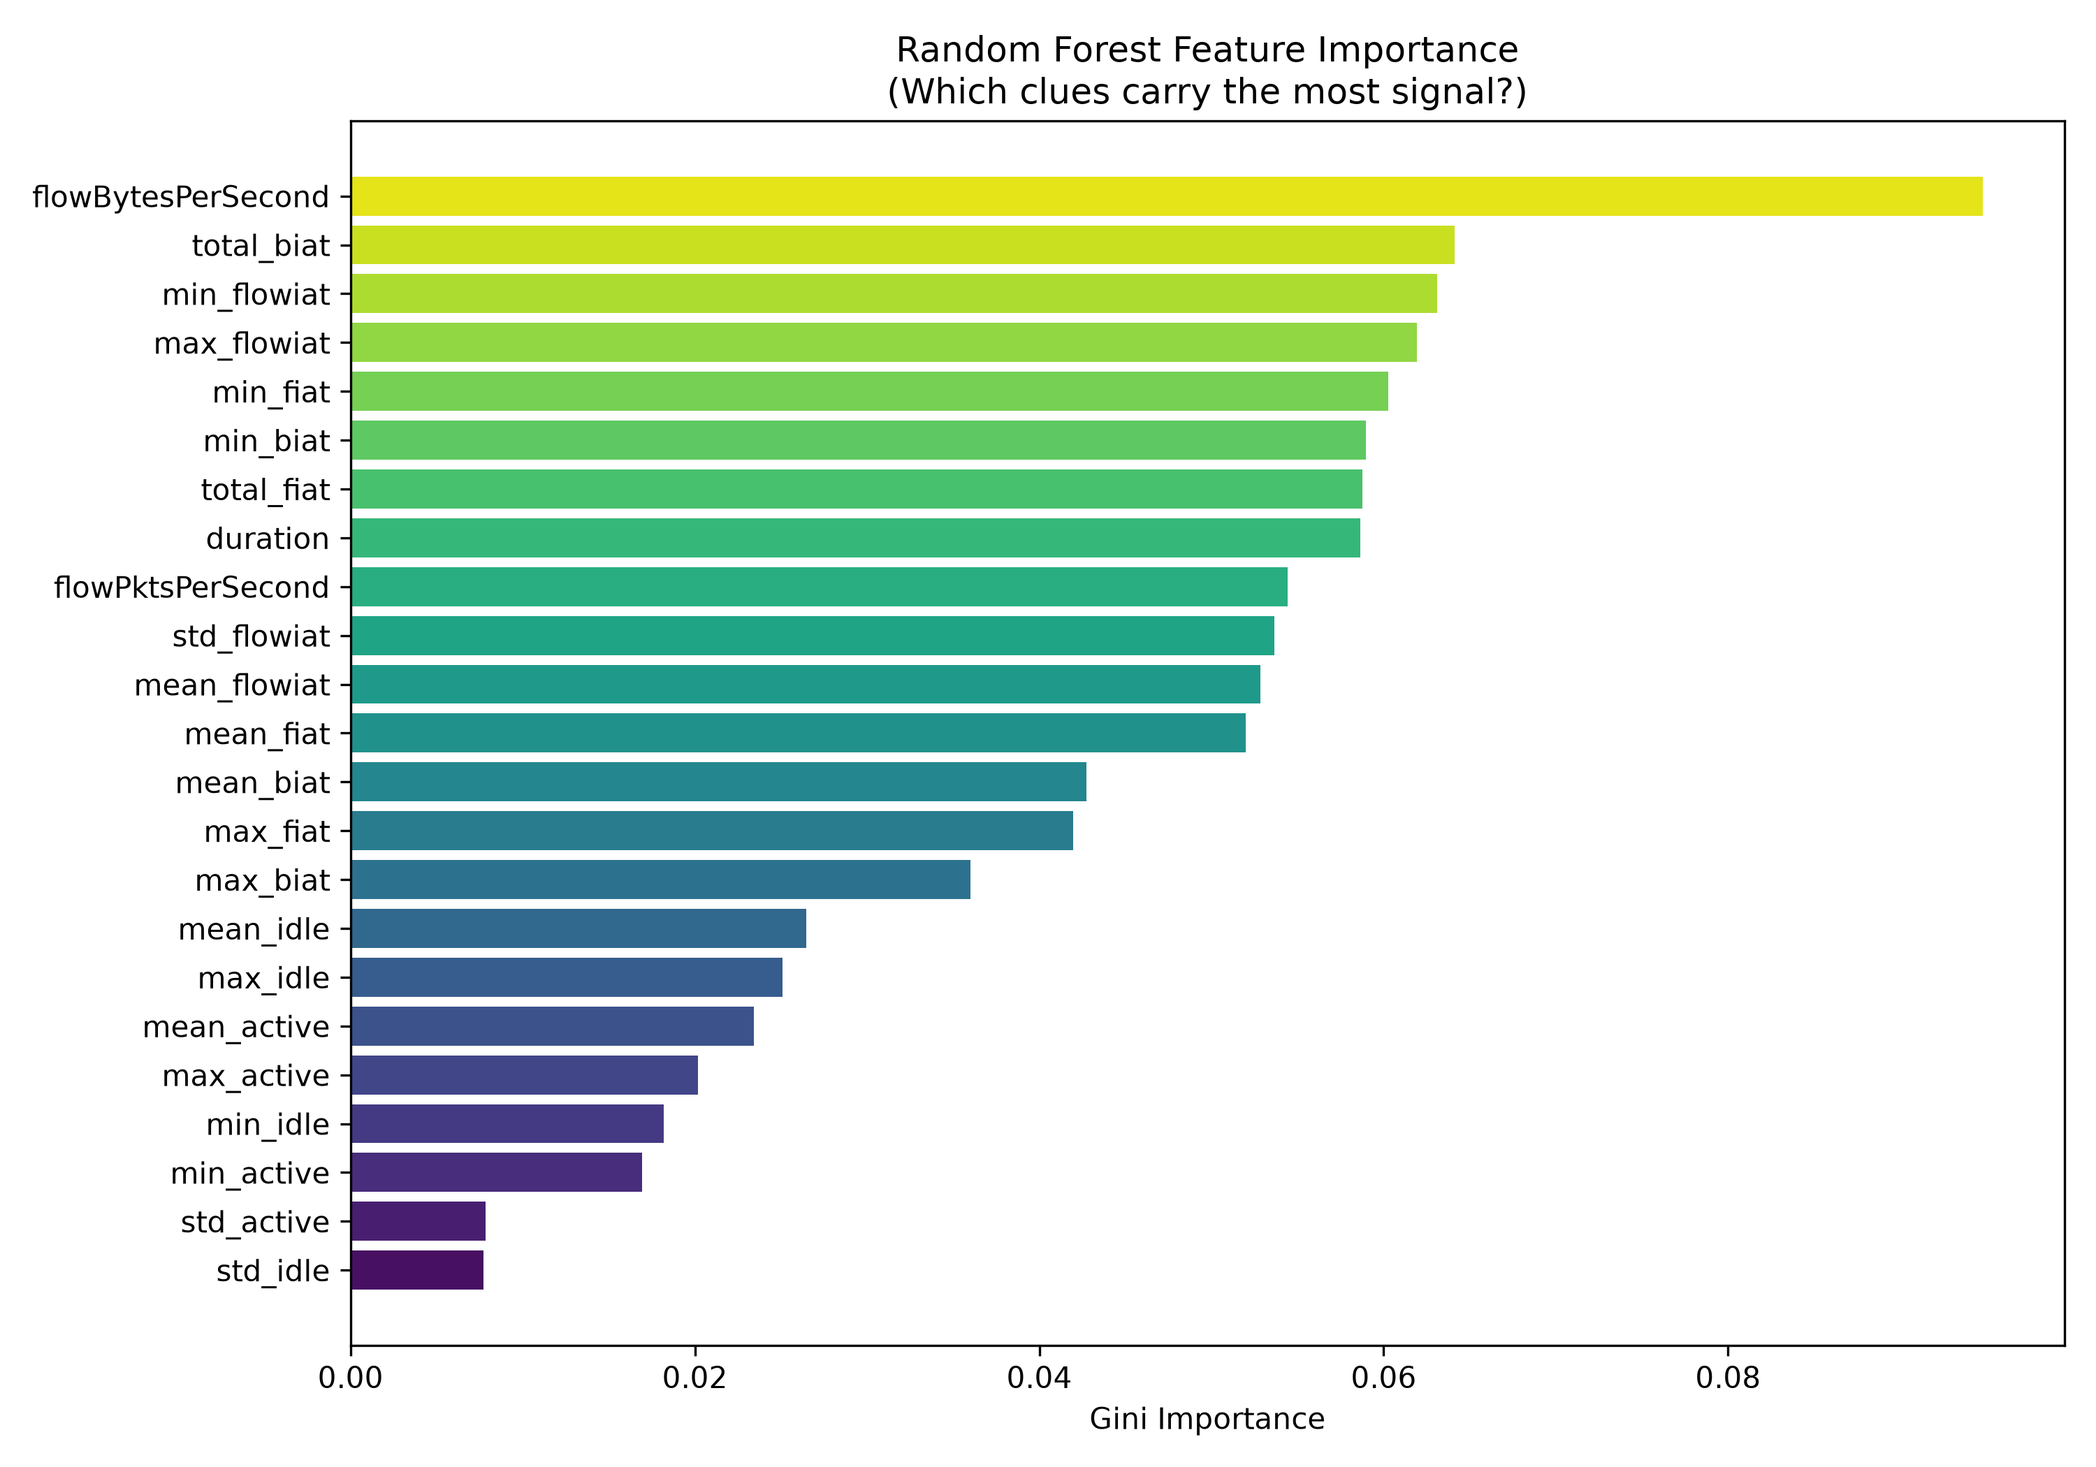
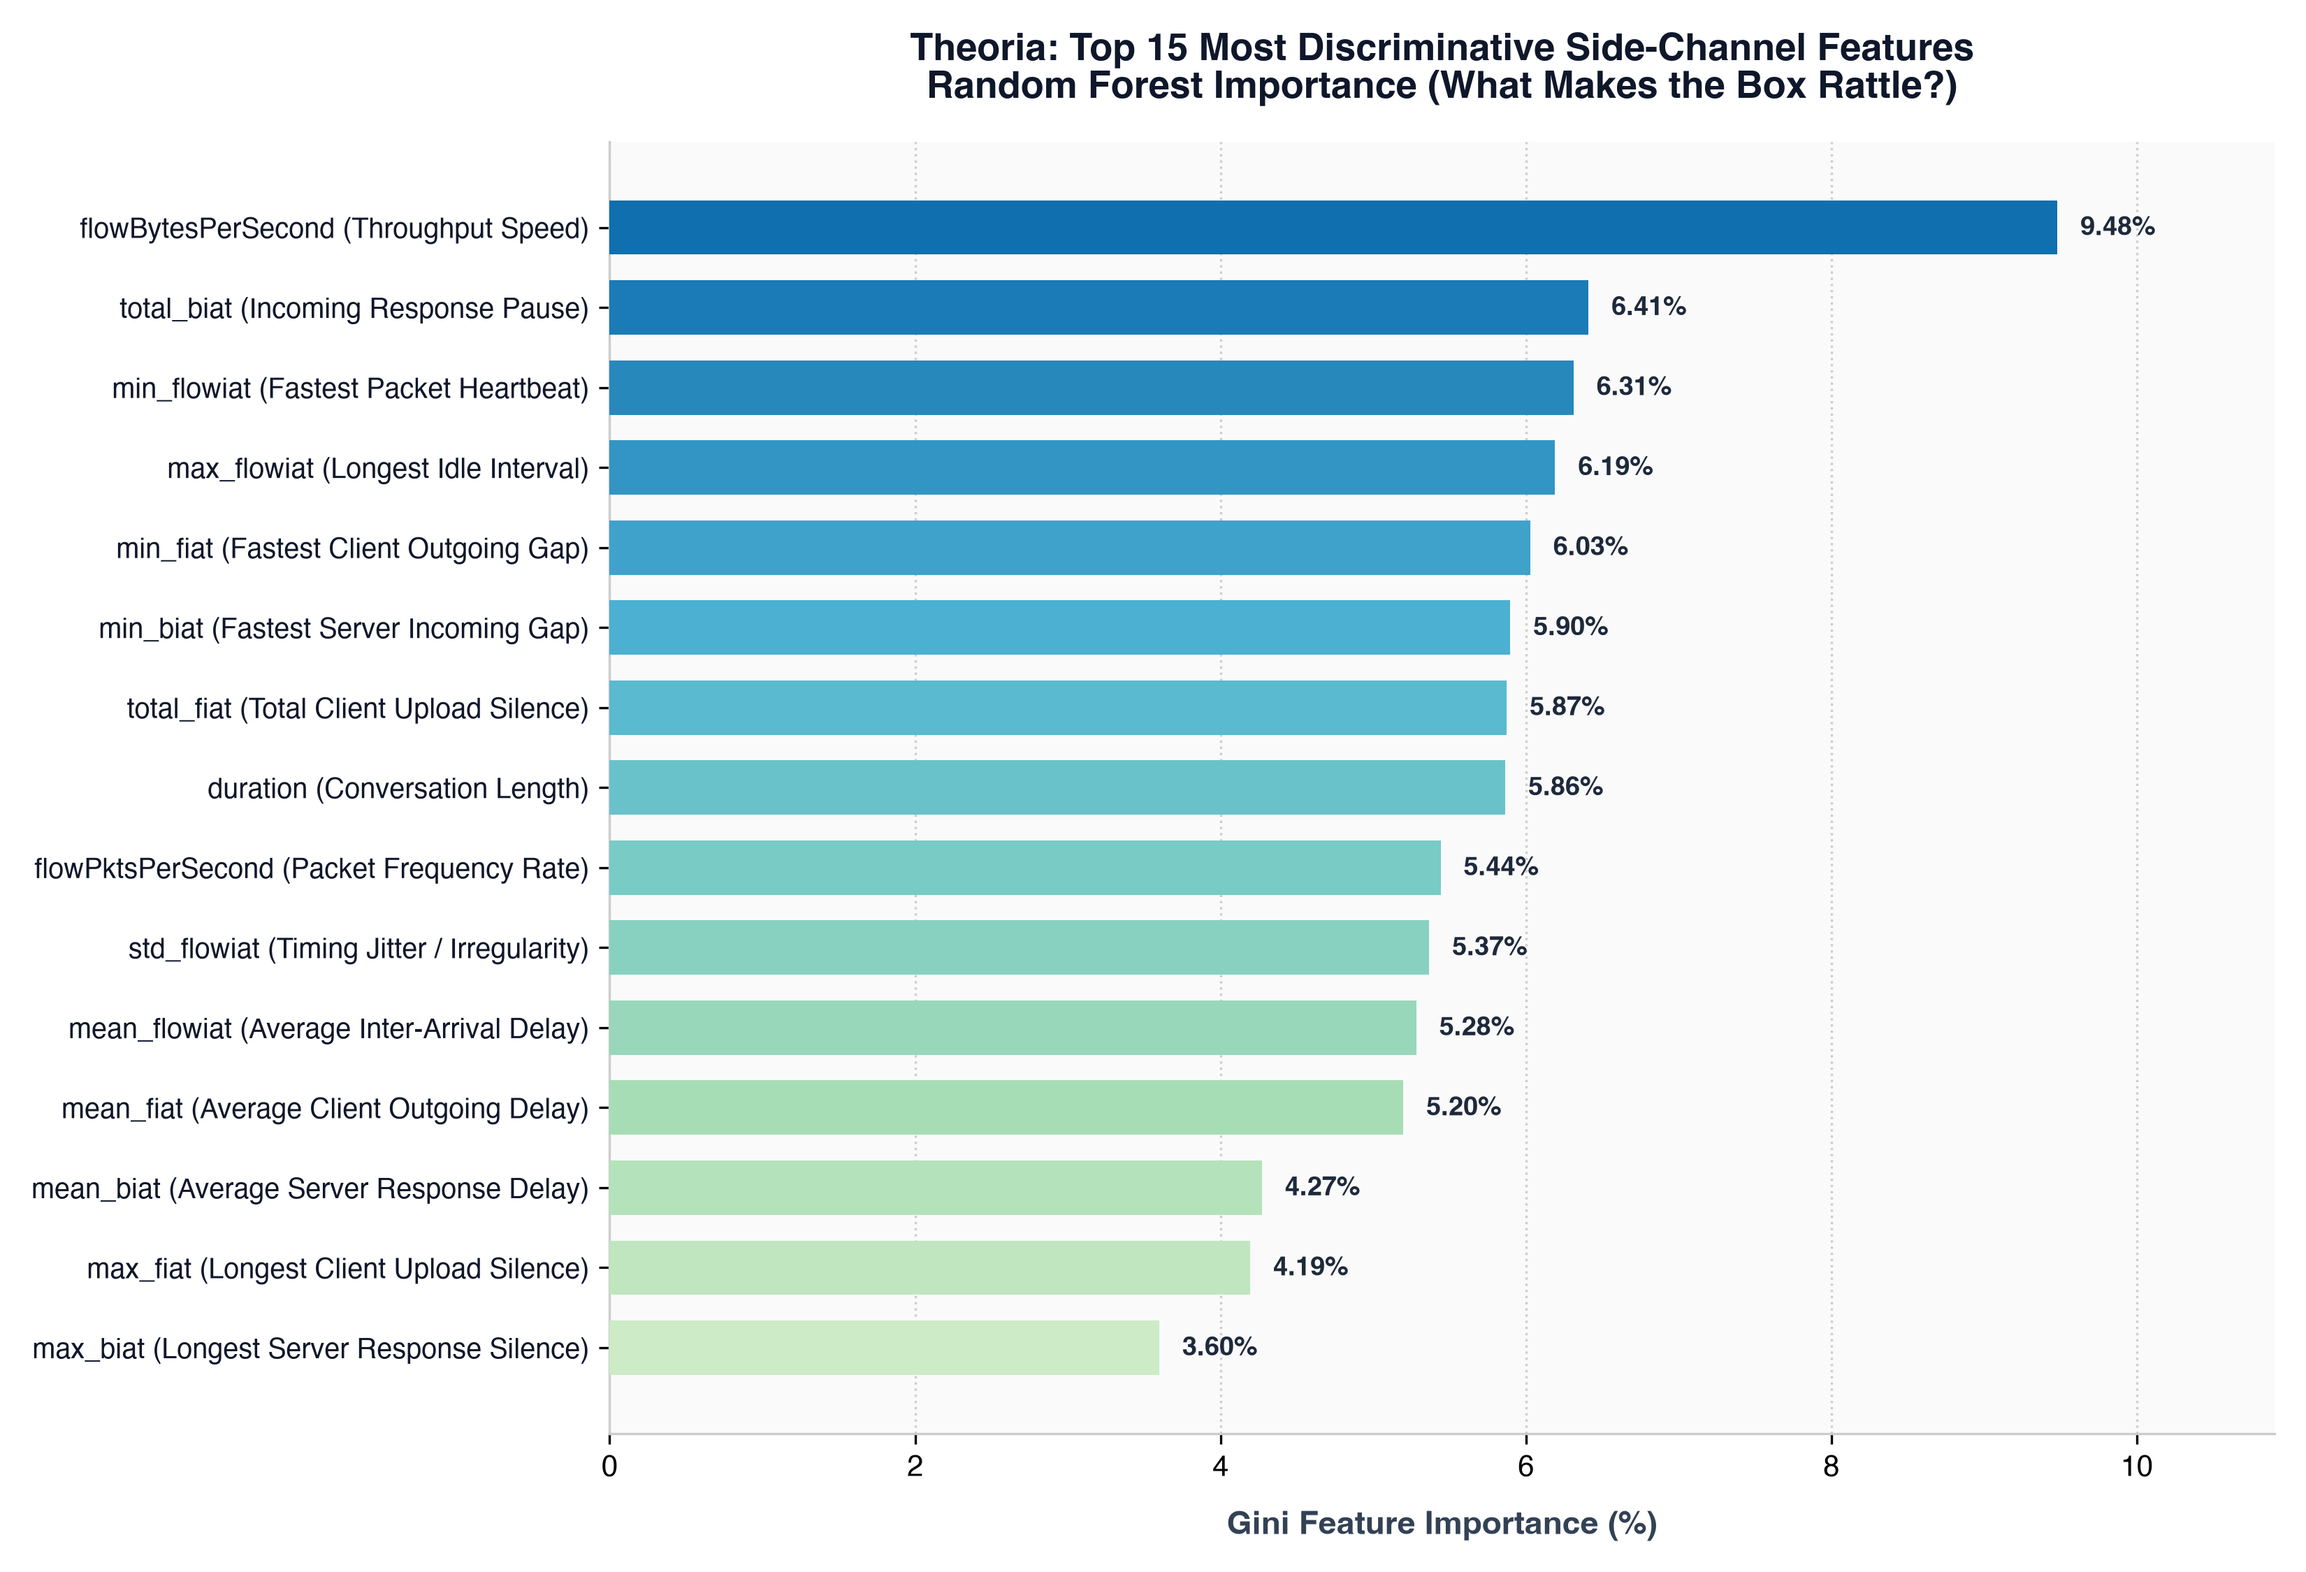
visuals: give the benchmark charts a modern research facelift

diff --git a/src/explainability.py b/src/explainability.py
@@ -46,19 +46,54 @@ def stratified_subsample(X, y, n=2000, random_state=42):
     return X[sampled_idx], y[sampled_idx]
 
 def plot_feature_importance(importances, feature_names, output_dir="results"):
-    """Bar chart of Gini feature importances from Random Forest."""
+    """Publication-grade bar chart of Gini feature importances."""
     os.makedirs(output_dir, exist_ok=True)
 
-    sorted_idx = np.argsort(importances)[::-1]
-    sorted_names = feature_names[sorted_idx]
-    sorted_vals = importances[sorted_idx]
+    sorted_idx = np.argsort(importances)[::-1][:15]
+    top_names = feature_names[sorted_idx]
+    top_vals = importances[sorted_idx] * 100
 
-    plt.figure(figsize=(10, 7))
-    colors = sns.color_palette("viridis", len(sorted_names))
-    plt.barh(range(len(sorted_names)), sorted_vals[::-1], color=colors)
-    plt.yticks(range(len(sorted_names)), sorted_names[::-1])
-    plt.xlabel("Gini Importance")
-    plt.title("Random Forest Feature Importance\n(Which clues carry the most signal?)")
+    meanings = {
+        'flowBytesPerSecond': 'Throughput Speed',
+        'total_biat': 'Incoming Response Pause',
+        'min_flowiat': 'Fastest Packet Heartbeat',
+        'max_flowiat': 'Longest Idle Interval',
+        'min_fiat': 'Fastest Client Outgoing Gap',
+        'min_biat': 'Fastest Server Incoming Gap',
+        'total_fiat': 'Total Client Upload Silence',
+        'duration': 'Conversation Length',
+        'flowPktsPerSecond': 'Packet Frequency Rate',
+        'std_flowiat': 'Timing Jitter / Irregularity',
+        'mean_flowiat': 'Average Inter-Arrival Delay',
+        'mean_biat': 'Average Server Response Delay',
+        'max_biat': 'Longest Server Response Silence',
+        'max_fiat': 'Longest Client Upload Silence',
+        'mean_fiat': 'Average Client Outgoing Delay'
+    }
+
+    display_labels = [f"{name} ({meanings.get(name, 'Flow Dynamic')})" for name in top_names]
+
+    fig, ax = plt.subplots(figsize=(11, 7.5), dpi=300)
+    fig.patch.set_facecolor('#FFFFFF')
+    ax.set_facecolor('#FAFAFA')
+
+    colors = plt.cm.GnBu_r(np.linspace(0.15, 0.75, len(top_vals)))
+    y_pos = np.arange(len(top_vals))
+    ax.barh(y_pos, top_vals[::-1], color=colors[::-1], height=0.68, edgecolor='none', zorder=3)
+
+    for i, v in enumerate(top_vals[::-1]):
+        ax.text(v + 0.15, i, f"{v:.2f}%", va='center', ha='left', fontsize=9, fontweight='bold', color='#1E293B')
+
+    ax.set_yticks(y_pos)
+    ax.set_yticklabels(display_labels[::-1], fontsize=9.5, color='#0F172A')
+    ax.set_xlabel('Gini Feature Importance (%)', fontsize=11, fontweight='bold', color='#334155', labelpad=10)
+    ax.set_title('Theoria: Top 15 Most Discriminative Side-Channel Features\nRandom Forest Importance (What Makes the Box Rattle?)',
+                 fontsize=13, fontweight='bold', pad=15, color='#0F172A')
+    ax.set_xlim(0, max(top_vals) * 1.15)
+    ax.grid(axis='x', linestyle=':', alpha=0.6, zorder=0)
+    ax.spines['top'].set_visible(False)
+    ax.spines['right'].set_visible(False)
+
     plt.tight_layout()
     plt.savefig(os.path.join(output_dir, "feature_importance_ranking.png"), dpi=300)
     plt.close()

diff --git a/src/train.py b/src/train.py
@@ -42,19 +42,30 @@ def load_data(npz_path="data/prepared_data.npz"):
         data['classes'], data['feature_names']
     )
 
-def plot_confusion_matrix(y_true, y_pred, classes, model_name, output_dir="results"):
+def plot_confusion_matrix(y_true, y_pred, classes, model_name, acc=None, macro_f1=None, output_dir="results"):
     os.makedirs(output_dir, exist_ok=True)
     cm = confusion_matrix(y_true, y_pred, normalize='true')
     
-    plt.figure(figsize=(8, 6))
-    sns.heatmap(cm, annot=True, fmt='.2f', cmap='Blues',
-                xticklabels=classes, yticklabels=classes)
-    plt.title(f"Normalized Confusion Matrix - {model_name}")
-    plt.ylabel('True Class')
-    plt.xlabel('Predicted Class')
-    plt.xticks(rotation=45, ha='right')
-    plt.tight_layout()
+    fig, ax = plt.subplots(figsize=(8.5, 7), dpi=300)
+    fig.patch.set_facecolor('#FFFFFF')
+    ax.set_facecolor('#FFFFFF')
     
+    sns.heatmap(cm, annot=True, fmt='.2f', cmap='Blues', cbar=True,
+                xticklabels=classes, yticklabels=classes,
+                annot_kws={"size": 10, "weight": "bold"}, ax=ax,
+                linewidths=0.5, linecolor='#F1F5F9')
+    
+    subtitle = ""
+    if acc is not None and macro_f1 is not None:
+        subtitle = f"\nAccuracy: {acc*100:.2f}% | Macro F1: {macro_f1:.4f} (N = {len(y_true):,} Flows)"
+    ax.set_title(f"Theoria: {model_name} — Confusion Matrix{subtitle}",
+                 fontsize=12, fontweight='bold', pad=15, color='#0F172A')
+    ax.set_ylabel('True Application Class', fontsize=10.5, fontweight='bold', color='#334155')
+    ax.set_xlabel('Predicted Application Class', fontsize=10.5, fontweight='bold', color='#334155')
+    ax.set_xticklabels(classes, rotation=35, ha='right', fontsize=9.5, color='#1E293B')
+    ax.set_yticklabels(classes, rotation=0, fontsize=9.5, color='#1E293B')
+    
+    plt.tight_layout()
     filename = f"{model_name.lower().replace(' ', '_').replace('/', '_')}_confusion_matrix.png"
     plt.savefig(os.path.join(output_dir, filename), dpi=300)
     plt.close()
@@ -78,7 +89,7 @@ def evaluate_model(model, X_train, y_train, X_test, y_test, classes, model_name)
     print(classification_report(y_test, y_pred, target_names=classes, digits=4))
     
     # Save confusion matrix plot
-    plot_confusion_matrix(y_test, y_pred, classes, model_name)
+    plot_confusion_matrix(y_test, y_pred, classes, model_name, acc=acc, macro_f1=macro_f1)
     
     # Save model artifact
     clean_name = model_name.lower().replace(' ', '_').replace('/', '_')

diff --git a/app.py b/app.py
@@ -145,6 +145,9 @@ with tab2:
 
     st.dataframe(disp_df, use_container_width=True, hide_index=True)
 
+    if os.path.exists("results/model_benchmark_comparison.png"):
+        st.image("results/model_benchmark_comparison.png", caption="Multi-Model Benchmark & 80% Gate-Check Verification", use_container_width=True)
+
     st.info("💡 **The Gate Check:** Decision Tree (90.7%) and k-NN (82.4%) were the paper's original models. Replicating >80% proved our data hygiene was correct before training the winning Random Forest (92.6%).")
 
     st.subheader("Normalized Confusion Matrix")

diff --git a/src/verify_pipeline.py b/src/verify_pipeline.py
@@ -47,7 +47,8 @@ def run_health_check():
 
     # 4. Results checks
     plots_to_check = [
-        "model_comparison.json", "random_forest_confusion_matrix.png",
+        "model_comparison.json", "model_benchmark_comparison.png",
+        "random_forest_confusion_matrix.png",
         "feature_importance_ranking.png", "shap_global_bar.png",
         "shap_voip_dot.png", "shap_values.npz"
     ]

diff --git a/README.md b/README.md
@@ -156,23 +156,17 @@ Evaluated on **11,942 unseen test flows** using both Accuracy and Macro F1:
 | **Multi-Layer Perceptron (MLP)** | **71.40%** | **0.6460** | **0.7027** | Neural network baseline (struggles on tabular statistics) |
 | **Dummy Classifier** | **33.50%** | **0.0717** | **0.1681** | Sanity floor (Predicts majority class: Browsing) |
 
+<p align="center">
+  <img src="results/model_benchmark_comparison.png" alt="Theoria Multi-Model Benchmark Comparison" width="90%" />
+</p>
+
 ### Confusion Matrix (Random Forest Champion)
 
 The normalized confusion matrix demonstrates clean diagonal separation across all application types, confirming that minority classes like Streaming and Chat are identified with high precision:
 
-```
-                  Predicted Class
-             BR    CH    FT    MA    P2    ST    VO
-        BR [0.93  0.01  0.02  0.01  0.02  0.00  0.01]
-        CH [0.03  0.88  0.02  0.03  0.02  0.00  0.02]
-True    FT [0.02  0.01  0.94  0.01  0.02  0.00  0.00]
-Class   MA [0.04  0.03  0.01  0.89  0.02  0.00  0.01]
-        P2 [0.02  0.01  0.02  0.01  0.94  0.00  0.00]
-        ST [0.08  0.01  0.03  0.01  0.02  0.84  0.01]
-        VO [0.01  0.01  0.00  0.00  0.00  0.00  0.97]
-```
-
-Full resolution visual confusion matrices are stored in `results/`.
+<p align="center">
+  <img src="results/random_forest_confusion_matrix.png" alt="Random Forest Normalized Confusion Matrix" width="70%" />
+</p>
 
 ---
 
@@ -208,6 +202,10 @@ flowchart LR
 | **#3** | `min_flowiat` | **6.31%** | Shortest pause between any two packets: application heartbeat regularity |
 | **#4** | `max_flowiat` | **6.19%** | Longest silence period: user think time and idle intervals |
 | **#5** | `min_fiat` | **6.03%** | Shortest pause between outgoing packets: client upload frequency |
+
+<p align="center">
+  <img src="results/feature_importance_ranking.png" alt="Theoria Feature Importance Ranking" width="90%" />
+</p>
 
 ---
 
